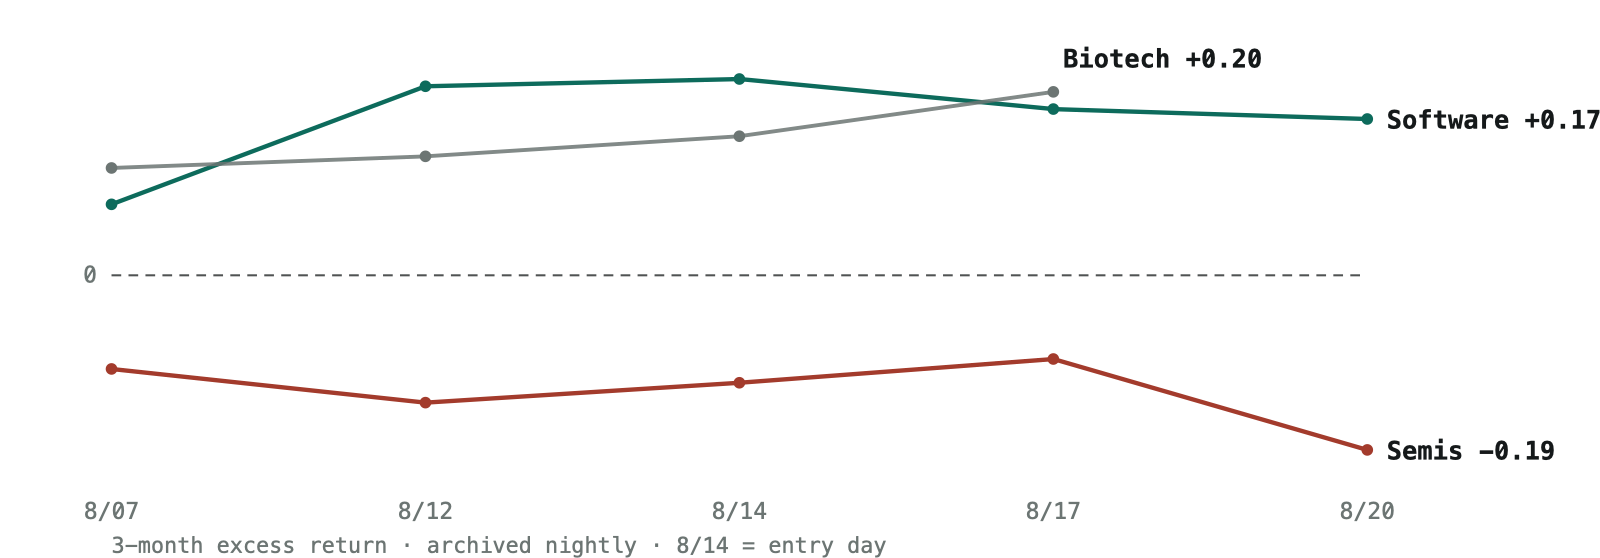
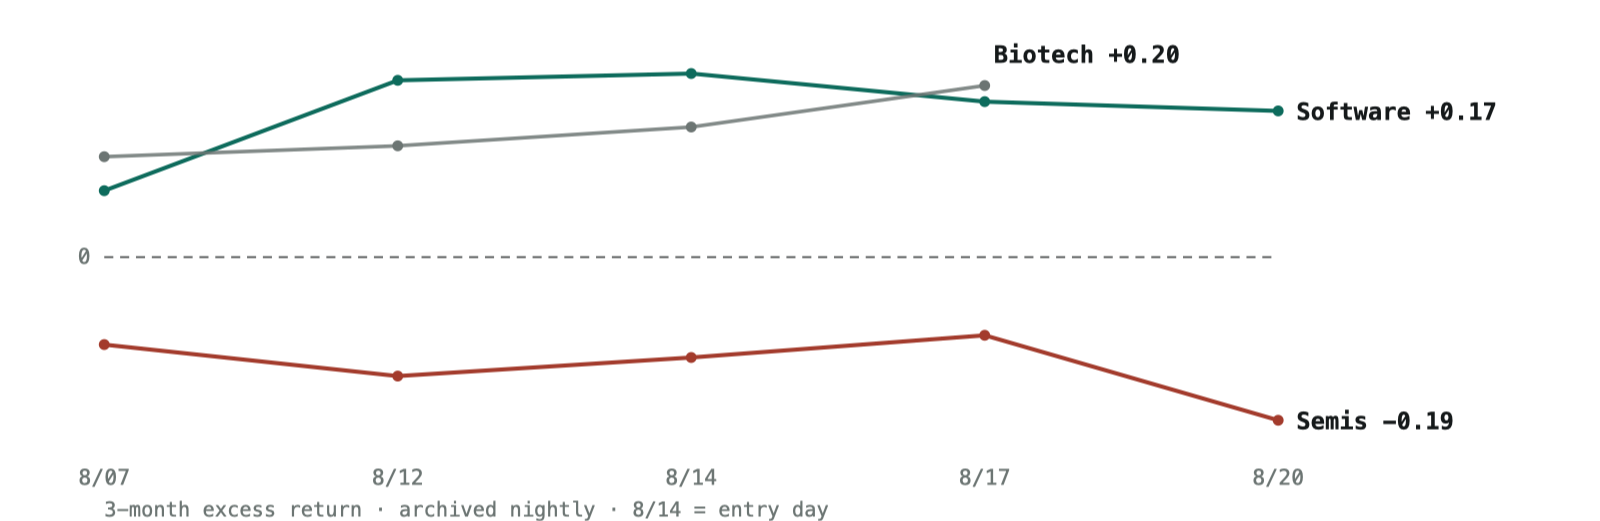
fix(mrna-x): 两张图右缘被裁 —— viewBox 按中文标签算宽，英文标签更长
发文前通读 X 草稿时发现："Software +0.17" 少一位、"60 = the line" 少半句。
根因是 viewBox 右留白按中文标签宽度定的（"半导体 -0.19" / "60 分水岭"），
换成英文后标签更长，超出画布被裁。当时的导出是临时拼的没留下来，只好重来。

顺手固化 builder/export_x.py：从 preview_en.html 抽内联 SVG → 写死颜色令牌
（页面 CSS 不跟 PNG 走）→ 正方形画布过 qlmanage → sips 居中裁回。
每张图的右留白和中文残留标签的英文替换写在 JOBS 里。

注：preview_en.html 的 zoom 图仍是中文标签，英文版只存在于导出环节——
所以脚本里做替换，并在找不到中文标签时告警。

diff --git a/Fluxus_Substack/drafts/mrna_2026-08/builder/export_x.py b/Fluxus_Substack/drafts/mrna_2026-08/builder/export_x.py
@@ -1,0 +1,133 @@
+#!/usr/bin/env python3
+"""把 preview_en.html 里的内联 SVG 导出成 X 长文用的 PNG。
+
+为什么要这个脚本：08-24 发文当天发现两张图右缘被裁（"Software +0.17" 少一位、
+"60 = the line" 少半句）——原因是 viewBox 宽度按中文标签算的，英文标签更长。
+当时的导出是临时拼的，没留下来，只好重来一遍。这次固化。
+
+用法：python3 builder/export_x.py            # 导出全部
+      python3 builder/export_x.py 0 3        # 只导出第 0、3 张
+"""
+import html
+import re
+import subprocess
+import sys
+from pathlib import Path
+
+ROOT = Path(__file__).resolve().parent.parent
+SRC = ROOT / 'preview_en.html'
+OUT = ROOT / 'assets_x'
+TMP = Path('/tmp/fluxus_x_export')
+PX = 1600  # 导出长边像素
+
+# preview_en.html 的 :root 令牌，导出时必须字面写死（页面 CSS 不跟着 PNG 走）
+TOKENS = {
+    '--ground': '#F6F7F6', '--panel': '#FFFFFF', '--ink': '#15191A',
+    '--muted': '#6C7573', '--rule': '#DCE0DE', '--rule-soft': '#E9ECEA',
+    '--accent': '#0D6B5C', '--accent-soft': '#E2EEEA', '--neg': '#A33B2C',
+    '--pos': '#0D6B5C',
+}
+MONO = '"IBM Plex Mono","SF Mono",Menlo,monospace'
+SANS = '"Helvetica Neue",Arial,sans-serif'
+
+STYLE = f"""
+text {{ font-family:{MONO}; }}
+.lnA,.lnN,.lnM,.m10,.m20,.m50 {{ fill:none; }}
+.lnA {{ stroke:{TOKENS['--accent']}; stroke-width:1.8 }}
+.lnM {{ stroke:{TOKENS['--muted']}; stroke-width:1.6; opacity:.85 }}
+.lnN {{ stroke:{TOKENS['--neg']}; stroke-width:1.8 }}
+.dotA {{ fill:{TOKENS['--accent']} }}
+.dotM {{ fill:{TOKENS['--muted']} }}
+.dotN {{ fill:{TOKENS['--neg']} }}
+.funT {{ font-size:10.5px; fill:{TOKENS['--ink']}; font-weight:600 }}
+.lbl  {{ font-size:9.5px; fill:{TOKENS['--muted']} }}
+.cap  {{ font-size:9px;  fill:{TOKENS['--muted']} }}
+.val  {{ font-size:10.5px; fill:{TOKENS['--ink']}; font-weight:600 }}
+.note {{ font-size:8.6px; fill:{TOKENS['--ink']}; font-weight:600 }}
+.ax   {{ font-size:9px;  fill:{TOKENS['--muted']} }}
+.lvl  {{ stroke:{TOKENS['--ink']}; stroke-width:1; stroke-dasharray:4 3; opacity:.75 }}
+.lvlT,.entryT {{ font-size:9.5px; fill:{TOKENS['--ink']}; font-weight:600 }}
+.entry {{ stroke:{TOKENS['--accent']}; stroke-width:1.2 }}
+.entryT {{ fill:{TOKENS['--accent']} }}
+.risk {{ fill:{TOKENS['--neg']}; opacity:.12 }}
+.g    {{ stroke:{TOKENS['--rule-soft']}; stroke-width:1 }}
+.m10  {{ stroke:{TOKENS['--muted']}; stroke-width:1; opacity:.55 }}
+.m20  {{ stroke:{TOKENS['--accent']}; stroke-width:1.4 }}
+.m50  {{ stroke:{TOKENS['--muted']}; stroke-width:1.4; stroke-dasharray:3 2; opacity:.8 }}
+.wick {{ stroke-width:1 }}
+.wick.up,.body.up {{ stroke:{TOKENS['--pos']} }}
+.wick.dn,.body.dn {{ stroke:{TOKENS['--neg']} }}
+.body.up {{ fill:{TOKENS['--ground']} }}
+.body.dn {{ fill:{TOKENS['--neg']} }}
+.bar  {{ fill:{TOKENS['--accent']} }}
+.bar.dim {{ fill:{TOKENS['--muted']}; opacity:.32 }}
+.fun  {{ fill:{TOKENS['--accent-soft']}; stroke:{TOKENS['--accent']}; stroke-width:1 }}
+.barP {{ fill:{TOKENS['--accent-soft']}; stroke:{TOKENS['--accent']}; stroke-width:1 }}
+.barR {{ fill:{TOKENS['--neg']}; opacity:.85 }}
+.big  {{ font-family:{SANS}; font-size:22px; font-weight:700; fill:{TOKENS['--ink']} }}
+"""
+
+# 每张图：输出文件名 · 中文残留标签的英文替换 · 右侧留白（英文标签更长）
+JOBS = {
+    0: dict(name='03_sectors.png', pad_right=46, zh={}),
+    1: dict(name='05_rsline.png',  pad_right=0,  zh={}),
+    2: dict(name='06_band.png',    pad_right=0,  zh={}),
+    3: dict(name='07_zoom.png',    pad_right=80,
+            zh={'60 分水岭': '60 = the line', '入场 62.72': 'entry 62.72'}),
+    4: dict(name='10_sizing.png',  pad_right=0,  zh={}),
+    5: dict(name='11_breadth.png', pad_right=0,  zh={}),
+}
+
+
+def extract():
+    src = SRC.read_text()
+    return re.findall(r'<svg viewBox="([^"]+)"[^>]*>(.*?)</svg>', src, re.S)
+
+
+def build(idx, viewbox, body, job):
+    for zh, en in job['zh'].items():
+        if zh not in body:
+            print(f'  ⚠ 图 {idx}: 没找到中文标签 {zh!r}，可能上游已改')
+        body = body.replace(zh, en)
+    x0, y0, w, h = (float(v) for v in viewbox.split())
+    w += job['pad_right']
+    # qlmanage 按正方形画布缩放（按高度定标），所以先把 viewBox 撑成正方形、
+    # 内容垂直居中，出图后再用 sips 居中裁回真实高度。
+    side = max(w, h)
+    vy = y0 - (side - h) / 2
+    doc = (f'<svg xmlns="http://www.w3.org/2000/svg" viewBox="{x0} {vy} {side} {side}" '
+           f'width="{PX}" height="{PX}">'
+           f'<style>{STYLE}</style>'
+           f'<rect x="{x0}" y="{y0}" width="{w}" height="{h}" fill="{TOKENS["--panel"]}"/>'
+           f'{body}</svg>')
+    return html.unescape(doc), w, h, side
+
+
+def rasterize(svg_path, out_path, h, side):
+    subprocess.run(['qlmanage', '-t', '-s', str(PX), '-o', str(TMP), str(svg_path)],
+                   check=True, capture_output=True)
+    made = TMP / (svg_path.name + '.png')
+    if not made.exists():
+        raise RuntimeError(f'qlmanage 没产出 {made}')
+    crop_h = max(1, round(PX * h / side))
+    subprocess.run(['sips', '-s', 'format', 'png', '-c', str(crop_h), str(PX),
+                    str(made), '--out', str(out_path)], check=True, capture_output=True)
+    return out_path
+
+
+def main(which):
+    TMP.mkdir(exist_ok=True)
+    svgs = extract()
+    for idx in which:
+        job = JOBS[idx]
+        viewbox, body = svgs[idx]
+        doc, w, h, side = build(idx, viewbox, body, job)
+        p = TMP / f'{idx}.svg'
+        p.write_text(doc)
+        out = rasterize(p, OUT / job['name'], h, side)
+        print(f'✓ 图 {idx} → {job["name"]}  viewBox {w:.0f}×{h:.0f}  {out.stat().st_size // 1024} KB')
+
+
+if __name__ == '__main__':
+    args = [int(a) for a in sys.argv[1:]] or sorted(JOBS)
+    main(args)
